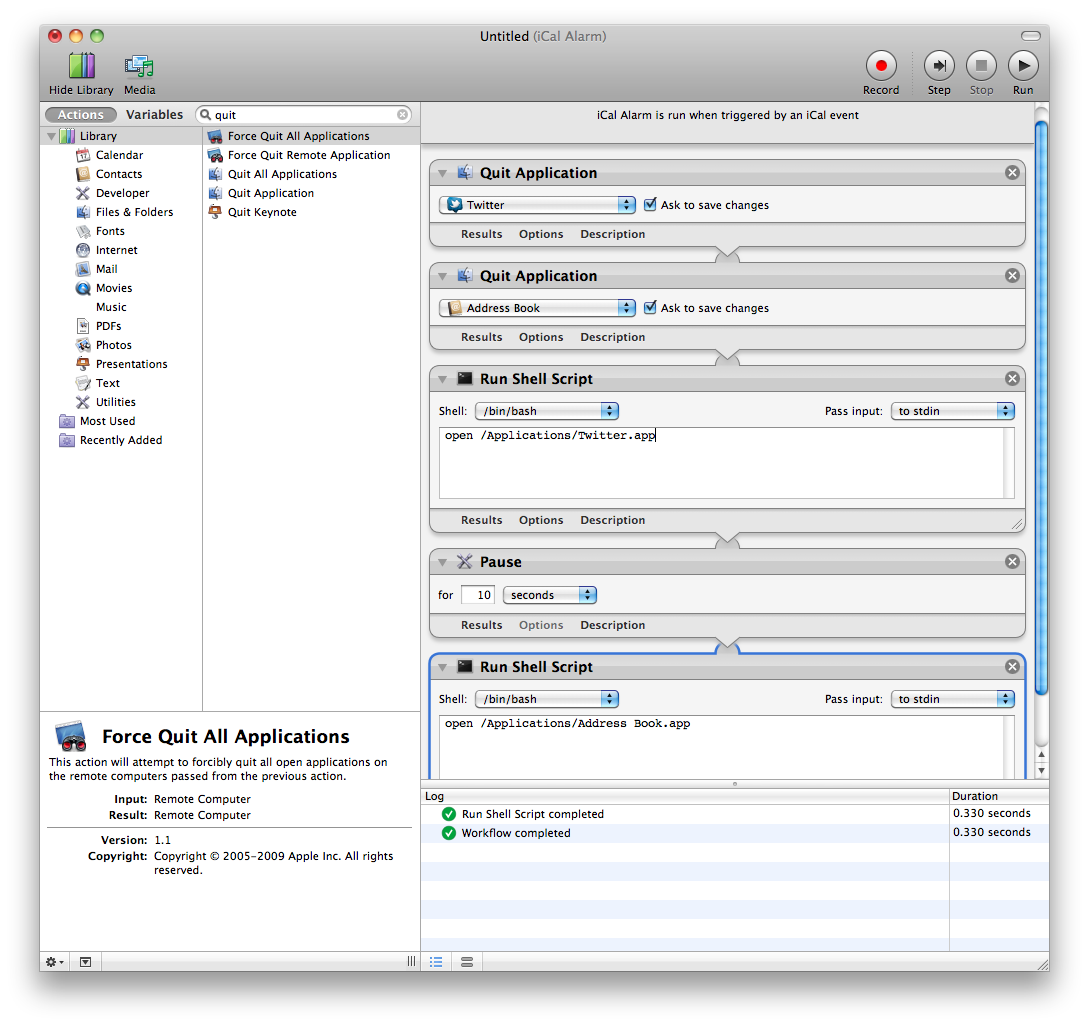
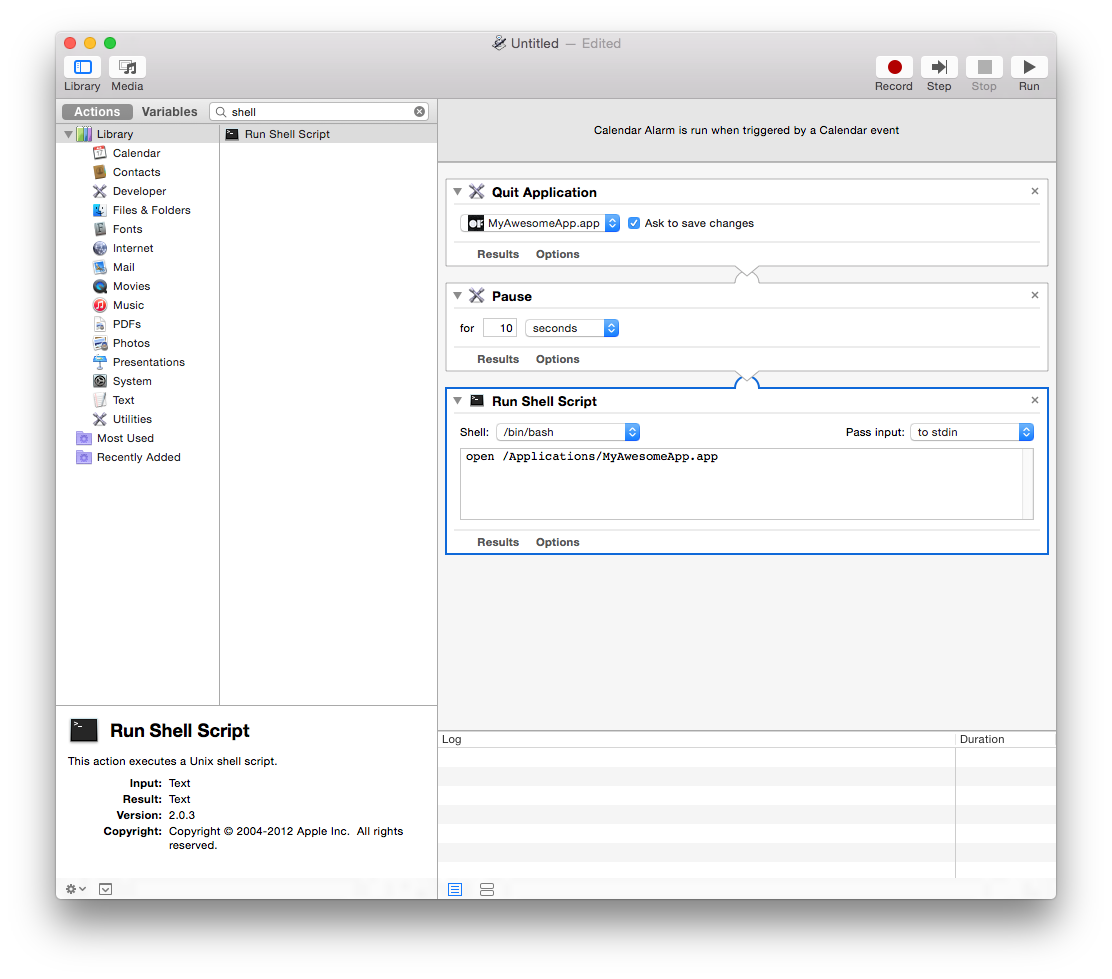
Updates to Yosemite images and formatting for Installation up 4evr

diff --git a/chapters/installation_up_4evr_macosx/chapter.md b/chapters/installation_up_4evr_macosx/chapter.md
@@ -1,9 +1,8 @@
-#Installation up 4evr - OSX#
+The original version of the article is [here](http://blairneal.com/blog/installation-up-4evr/) - I wanted to post it here to more easily/consistently update it and open it up to other people's modifications tips and suggestions - a Linux/Windows version would be great to build out too!
 
-The original version of the article is [here](http://blairneal.com/blog/installation-up-4evr/).
+Edited the article with https://stackedit.io/# for help with rendering Github Flavored Markup
 
-This article is intended as a starter guide to help keep a software based installation up for as long as possible in a public facing setting. This guide applies primarily to software running on Mac OSX 10.8+. The software is likely running as a fullscreen, single display app. Although I hope many different people find parts of the article useful in terms of prepping for the challenge of long term installs.
-
+---------
 At work I recently had to set up a four installations of different configurations that would need to run all day, every day, 24 hours a day for a couple months with as few crashes or glitches as possible and without anyone going to check on them. This is something that a lot of media artists need to do all the time, and there are a bunch of different tricks and tips to keeping things up for an extended period, I figured I’d share my findings. There are alternate ways to do many of these tasks and this is only one road so please share some tips you’ve picked up out in the field down in the comments box below.
 
 I had to do several searches in a couple different places to find all the information I needed to keep everything consistently up and bug free. Luckily most of the installations I was dealing with this time were fairly light in terms of resources and complications, but it’s always best practices to have a safety net.
@@ -12,24 +11,26 @@ I usually run these off brand new, unboxed computers so this is sort of starting
 
 Tip: if you’re doing multiple computers, do these prep steps on one of them and just boot the others into target disk mode and use something like [Carbon Copy Cloner](http://www.bombich.com/) to mirror the first one on the next so everything is as consistent as possible.
 
-Step 1: Prep your software and the computer
-----------------------------------------------
+**Step 1: Prep your software and the computer**
+-----------------------------------------------
 
 When building your software or whatever it might be, always keep the long running installation in mind. Plan which things will need to be adjusted by whoever is watching over the installation from the beginning (or at least don’t save it for the end). In my experience, keep it as simple as possible, so that it’s easy for the caretaker to get in there to fix or adjust what they need without opening Xcode and compiling or even exiting out of your app. Time you spend now to make things simple will save you hours of remote debugging when something breaks.
 
-You’ll need to go through and turn off or disable several different automatic settings to keep things from popping up over top of your application. This can differ depending on whether you’re running 10.6, 10.7, 10.8, 10.9 etc etc.
+You’ll need to go through and turn off or disable several different automatic settings to keep things from popping up over top of your application. This can differ depending on whether you’re running 10.7, 10.8, 10.9, 10.10 etc etc.
+
+Nick Hardeman has made a utility application for setting all of these attributes and more from one location - [check it out here](http://nickhardeman.com/610/openframeworks-configuring-osx-for-a-long-term-installation/)
 
 In System Preferences:
 
  - **Desktop and Screensaver:** Disable your screensaver. Set it’s time to “Never." I also suggest changing your desktop background to either black/a screenshot of your app/you client's logo - you can even set these to change automatically - remember - **it's not broken until someone notices** :)
  - **Energy Saver:** Turn Display Sleep and Computer Sleep to Never. Enable “Start up automatically after power failure” and “Restart automatically if the computer freezes” (these are only available in 10.7 and later)
- - **Users and Groups:** ->Login Options: Enable Automatic Login
+ - **Users and Groups:** Go to Login Options (above the padlock) and enable "Automatic Login"
  - **Software update:** Disable automatic updates.
- - **Notifications:** Disable any potential Notification Center alerts (banners or popups) from specific apps
  - **Sharing:**  If you are running your main computer without a monitor or in an inaccessible area, don’t forget to turn on File sharing and Screen sharing. This will allow you to access the computer and control it if you're on the same network (optional if you’re concerned about security).
  - **Network:** If you don’t need remote access or don’t need Internet access for the installation, it’s not a bad idea to disable the Wifi so the “please select a wireless network” window doesn’t pop up when you least expect it. You can also turn off the option to ask you to join a new network if the proper one isn't found.
- - **Bluetooth** :If running without a mouse or keyboard plugged in, sometimes you can get the annoying  ”Bluetooth keyboard/mouse setup” pop up over your application. You can temporality disable these by going to the advanced settings within the Bluetooth Preferences. See below for it’s location in 10.6.
+ - **Bluetooth** If running without a mouse or keyboard plugged in, sometimes you can get the annoying  ”Bluetooth keyboard/mouse setup” pop up over your application. You can temporality disable these by going to the advanced settings within the Bluetooth Preferences. See below for it’s location in 10.6.
  - **Security:** I would make sure that "Disable Automatic Login" is unchecked so you don't hit any surprises on reboots. If you’re really paranoid, you can even disable things like the IR remote receiver that still exists on some macs and definitely on Macbooks. This would keep pranksters with Apple TV remotes from “Front Rowing” your installation. To disable, go to Security->General->Advanced (in >10.8) and “Disable remote control IR receiver”.
+ - **Notification Center:** You can either [disable Notification Center completely](http://www.tekrevue.com/tip/how-to-completely-disable-notification-center-in-mac-os-x/), or set your "Do Not Disturb" to basically on be on forever by setting it with overlapping times like the screenshot below
 
 ![BluetoothSettings](images/Bluetooth_settings.png)
 
@@ -38,6 +39,12 @@ In System Preferences:
 ![SharingSettings](images/Sharing_settings.png)
 
 ![Login_items](images/Auto_login.png)
+
+![Power_settings](images/PowerSettings.png)
+
+![Update_disable](images/Auto_update_disable.png)
+
+![Notification_Center](images/Notification_Center_disable.png)
 
 You can also disable the "This Application Unexpectedly Quit" and the subsequent bug report that comes with it by running this command in terminal OR renaming the Problem Reporter app:
 
@@ -57,14 +64,15 @@ If necessary, You can also hide all of the desktop icons with this terminal comm
 defaults write com.apple.finder CreateDesktop -bool false
 ```
 
-Step 2: Boot into your software
+
+**Step 2: Boot into your software**
 -------------------------------
 
 Things get unplugged, power goes out, not everyone has budget or space for a battery backup etc etc. Above, I covered how to have everything reboot automatically after power failures or freezes, but you’ll also need your app to be ready to go from boot and not leave the desktop open to prying eyes. There are many ways to have your application load automatically - the simplest is using OSX's built in tools: In the System Preferences “Accounts” panel, select “Login Items” and drag your application into there to have it open automatically on launch.
 
 ![Login Items](images/Login_items.png)
 
-Step 3: Keep it up (champ!)
+**Step 3: Keep it up (champ!)**
 ---------------------------
 
 There are several ways to make sure your application goes up and stays up - 
@@ -79,38 +87,37 @@ The [difference between a Launch Daemon and a Launch Agent](http://techjournal.3
 
 Also note (!) that you may need to point your launch daemon to a file within your .app package, not just the app itself - you have to point it to the file in the MacOS folder inside the .app package (right-click your app and select "Show package Contents") Otherwise you might be wondering why the launchdaemon isn't launching your app.
 
-A launchd example from admsyn: https://gist.github.com/4140204
+A launchd example from [admsyn](https://gist.github.com/4140204)
 
 Of course you could make the launchd plist yourself for free from a template like above. You can read all about them with the command "man launchd.plist" typed into terminal to get an idea of what each toggle controls. One quick method to setting up Launchd is to use Lingon ($4.99 in the App Store) or [Lingon X](http://www.peterborgapps.com/lingon/) 
+ 
 
 In Lingon, hit the + to create a new launchd plist. Just make it a standard launch agent. Now Set up your plist like so:
 
 ![LingonSetup](images/LingonSetup.png)
 
-One additional/optional thing you can add to this is to put an additional key in the plist for a “Successful Exit”. By adding this, your app won’t re-open when it has detected that it closed normally (ie You just hit escape intentionally, it didn’t crash). Can be useful if you’re trying to check something and OS X won’t stop re-opening the app on you. To easily add this to the key, just hit “expert mode” on the bottom of the Lingon window after selecting your newly made script on the left. Then modify the relevant bits highlighted in the screenshot:
-
-![LingonplistSetup](images/LingonSetup2.png)
+One additional/optional thing you can add to this is to put an additional key in the plist for a “Successful Exit”. By adding this, your app won’t re-open when it has detected that it closed normally (ie You just hit escape intentionally, it didn’t crash). Can be useful if you’re trying to check something and OS X won’t stop re-opening the app on you. To easily add this to the key, click the advanced tab and click the checkbox for "Successful exit" - or just add it manually as it in the above screenshot.
 
 **Shell script+Cron Job method**
 
 (I got the following super helpful tip from [Kyle McDonald](http://kylemcdonald.net/))
+)
 
 This method is sort of deprecated in relation to the launchd method - you can run shell scripts with Lingon and launchd in the same manner as what we've got here. Shell scripting is your best friend. With the help of the script below and an application called CronniX (or use Lingon) , you will be able to use a cronjob to check the system’s list of currently running processes. If your app does not appear on the list, then the script will open it again, otherwise it won’t do anything. Either download the script or type the following into a text editor, replacing Twitter.app with your app’s name and filepath. Don’t forget the “.app” extension in the if statement!:
 
-```bash
-\#!/bin/sh if [ $(ps ax | grep -v grep | grep "Twitter.app" | wc -l) -eq 0 ] then
-echo "Twitter not running. opening..."
-open /Applications/Twitter.app else
-echo "Twitter running" fi
-```
+	\#!/bin/sh 
+		if [ $(ps ax | grep -v grep | grep "Twitter.app" | wc -l) -eq 0 ] then
+		echo "Twitter not running. opening..."
+		open /Applications/Twitter.app 
+		else
+		echo "Twitter running" fi
 
 Save that file as something like “KeepOpen.sh” and keep it next to your application or somewhere convenient.
 
 After creating that file, you’ll need to make it executable. To do this, open the Terminal and in a new window type “chmod +x ” and then enter the path to the shell script you just created (you can either drag the shell script into the terminal window or manually type it). It would look something like this:
 
-```bash    	
-Laser-MacBook-Pro:~ laser$ chmod +x /Users/laser/Desktop/KeepOpen.sh
-```
+    	
+    4Evr-MacBook-Pro:~ Forever4Evr$ chmod +x /Users/Forever4Evr/Desktop/KeepOpen.sh
 
 After you have made it executable, you’re now ready to set it up as a cronjob. Tip: to test the script, you can change the extension at the end to KeepOpen.command as an alternative to opening it with Terminal, but the same thing gets done.
 
@@ -126,17 +133,15 @@ This is a great tool if there is an unintended crash because the app will never 
 
 **Non-Cronjob - Shell Script Method**
 
-```bash
-\#!/bin/bash
- 
-while true
-do
-#using open to get focus
-echo "Trying to open empty example"
-open -a emptyExample
-sleep 10
-done
-```
+    \#!/bin/bash
+     
+    while true
+    do
+    #using open to get focus
+    echo "Trying to open empty example"
+    open -a emptyExample
+    sleep 10
+    done
 
 Just type this into a plaintext document and save it as something like ”KeepMyAppAlivePlz.command” and then use chmod as above to make the file executable  and then drop this in your login items as  above. This one will just continuously try and open your app every 10ms, but if it is already open, the OS knows to not try opening it a second, third, fourth time.
 
@@ -144,7 +149,7 @@ Make sure to check the Console.app for any errors that may have come through whe
 
 Applescript is also a very solid choice for doing some more OS specific work in terms of having odd menus clicked or keypresses sent in some order.
 
-Step 4: Reboot periodically
+**Step 4: Reboot periodically**
 ---------------------------
 
 This one is a little more preventative, or maybe superstitious so hopefully someone can point out a concrete reason why this is a good idea. Depending on your app and the amount of stuff it reaches into, there could be some memory leaks or other OS bugs that you haven’t accounted for. Rebooting every day or week is a good idea to keep everything tidy, system wise.
@@ -163,14 +168,16 @@ Run it to see if it does what you expect and then save it out. When you save,it 
 
 If you’d like to just close your programs and re-open them and there is a background and foreground do something like this (pauses are so the quitting and re-opening stuff has time to actually execute):
 
-![enter image description here](images/Automator_example.png)
+![AutomatorPause](images/Automator_example.png)
 
-Step 5: Check in on it from afar
+**Step 5: Check in on it from afar.**
 ---------------------------------
 
 There are a bunch of options here from various paid web services (like [Logmein](http://www.logmein.com/) or [Teamviewer](http://teamviewer.com/)), to VNC (many options for this: [RealVNC](http://realvnc.com/) and Chicken of the VNC tend to come up a bunch) to [SSHing](http://www.mactricksandtips.com/2009/06/ssh-into-your-mac.html). The choice here depends on your comfort level and how much you need to do to perform maintenance from far away. Also - see below for tips on logging the status of your app as an alternative way
 
 Leaving a Dropbox connected to the computer and your own is super useful for file swaps between the two computers. Although most remote screensharing services have file sharing built in, Dropbox is just a nice, fairly transparent option.
+
+Determining the IP of the machine on a dynamically allocated network can be a pain, especially in screenless/headless installations. To make this a little easier, Robb Godshaw wrote a little Automator Script that says the IP aloud using Text-to-Speech 30 seconds after the computer boots. [Download link on Instructables.](http://www.instructables.com/id/Configuring-a-Mac-for-an-always-on-operation/steps/9)
 
 Step 6: Test, test, test.
 -------------------------
@@ -190,31 +197,23 @@ There are a couple things you can do depending on what you want to know about th
 
 There is a terminal command you can use to get a list of all of the currently running processes on your computer:
 
-```bash
-ps aux (or ps ax)
-```
+    ps aux (or ps ax)
 
-(more info above ps commands [here](https://developer.apple.com/library/mac/documentation/Darwin/Reference/ManPages/man1/ps.1.html)) – Further more you can filter this list to only return applications you’re interested in learning about:
+(more info above ps commands [here](https://developer.apple.com/library/mac/documentation/Darwin/Reference/ManPages/man1/ps.1.html))) – Further more you can filter this list to only return applications you’re interested in learning about:
 
-```bash
-ps aux | grep "TweetDeck"
-```
-
+    ps aux | grep "TweetDeck"
+    
 This will return a line like this:
 
-```bash
-USER             PID  %CPU %MEM      VSZ    RSS   TT  STAT STARTED      TIME COMMAND
-laser          71564   0.4  1.7  4010724 140544   ??  S    Sun03PM  14:23.76 /Applications/TweetDeck.app/Contents/MacOS/TweetDeck -psn_0_100544477
-laser          95882   0.0  0.0  2432768    600 s000  S+   12:11PM   0:00.00 grep TweetDeck
-```
+    USER             PID  %CPU %MEM      VSZ    RSS   TT  STAT STARTED      TIME COMMAND
+    laser          71564   0.4  1.7  4010724 140544   ??  S    Sun03PM  14:23.76 /Applications/TweetDeck.app/Contents/MacOS/TweetDeck -psn_0_100544477
+    laser          95882   0.0  0.0  2432768    600 s000  S+   12:11PM   0:00.00 grep TweetDeck
 
 Now you have the following useful info: CPU usage, Memory usage (as percentage of total memory), Status, Time Started, Time Up
 
 All that is left is to write this output to a text file, which you can do with a line like this:
 
-```bash
-ps aux | grep 'TweetDeck' >> /Users/laser/Dropbox/InstallationLogs/BigImportantInstall/Number6ProcessLog.txt
-```
+    ps aux | grep 'TweetDeck' >> /Users/laser/Dropbox/InstallationLogs/BigImportantInstall/Number6ProcessLog.txt
 
 This line basically says - tell me the open processes (px aux) - only give me the lines that have "Tweetdeck" in them (grep Tweetdeck) - and then append them to a text file located at this location ( >> path_to_text_file)
 
@@ -222,31 +221,23 @@ Now we just need to make this an executable shell script and set it up as a laun
 
 Let’s also take this one step further and say, hypothetically, that the Triplehead2Go display adapter you have is fairly wonky and you don’t always get the displays or projectors to connect after reboot – or maybe a projector is shutting itself off and disrupting things. Well we can log the currently available resolutions too! Try entering the line below in your own terminal:
 
-```bash
-system_profiler SPDisplaysDataType
-```
+    system_profiler SPDisplaysDataType
     
 This will return a list of connected displays and some metadata about them including resolution and names.
 
 Let’s say you want to make sure you’re running a resolution of 3840×720 at all times…or you want a log of resolution changes. You would do something like:
 
-```bash
-system_profiler SPDisplaysDataType | grep Resolution
-```
+    system_profiler SPDisplaysDataType | grep Resolution
 
 This will return “Resolution: 3840×720″ which you can combine with the above lines to write it all to a text file. So here would be your shell script file if you wanted to record the currently running processes and the current resolutions:
 
-```bash
-    \#!/bin/bash
-ps aux | grep 'YourAppName' >> /Users/you/filepath/Install6ProcessLog.txt
-system_profiler SPDisplaysDataType | grep Resolution >> /Users/you/Dropbox/Install6ProcessLog.txt
-```
+        \#!/bin/bash
+    ps aux | grep 'YourAppName' >> /Users/you/filepath/Install6ProcessLog.txt
+    system_profiler SPDisplaysDataType | grep Resolution >> /Users/you/Dropbox/Install6ProcessLog.txt
 
 And now you’re feeling excited, maybe you want to grab a fullscreen screenshot at a regular interval too, just to make sure there is no funkiness happening that you can’t see…well you could add this line to the above as well:
 
-```bash
-screencapture ~/Desktop/$(date +%Y%m%d-%H%M%S).png
-```
+    screencapture ~/Desktop/$(date +%Y%m%d-%H%M%S).png
 
 This will save a screenshot to the desktop (specify your own file path) with a formatted date and time. You may want to do this every hour instead of every 5 minutes since it’s a big chunk of data and it may cause some issue with your screens. As usual – test before deploying!
 
@@ -254,7 +245,7 @@ Bonus points would be to create an auto-generated table and webpage that takes a
 
 If the process logger isn’t enough, we can use what we learned in that process to actually set up a system to email you if something is amiss so you don’t have to manually check it. We can do this all with the command line and internal tools, it’s just a more involved setup. This is going to be fairly general and will need some tuning in your specific case.
 
-First you will need to configure postfix so you can easily send emails from the terminal – follow the instructions here as closely as possible: http://benjaminrojas.net/configuring-postfix-to-send-mail-from-mac-os-x-mountain-lion/
+First you will need to configure postfix so you can easily send emails from the terminal – [follow the instructions here as closely as possible](http://benjaminrojas.net/configuring-postfix-to-send-mail-from-mac-os-x-mountain-lion/)
 
 If you were using a gmail account you would do:
 
@@ -268,23 +259,21 @@ Now send a test email to yourself by running: echo “Hello” | mail -s “test
 
 Second step is to combine this new found ability to send emails from the Terminal with a process to check if your application is still running…something like the below would work with some tweaking for what you’re looking to do:
 
-```bash
-\#!/bin/sh
-if [ $(ps ax | grep -v grep | grep "YourApp.app" | wc -l) -eq 0 ] ; #Replace YourApp.app with your own app's name     
-then
-        SUBJECT="Shit broke"
-        EMAIL="InstallationSupport" #this is the receiver
-     EMAILMESSAGE="This could be for adding an attachment/logfile"
-     echo "The program isn't open - trying to re-open">$SUBJECT
-     date | mail -s "$SUBJECT" "$EMAIL"  "$EMAILMESSAGE"
- 
-        echo "YourApp not running. Opening..."
- 
-    open /Applications/YourApp.app #reopen the app - set this to an exact filepath
-else
-    echo "YourApp is running"
-fi
-```
+    \#!/bin/sh
+    if [ $(ps ax | grep -v grep | grep "YourApp.app" | wc -l) -eq 0 ] ; #Replace YourApp.app with your own app's name     
+    then
+            SUBJECT="Shit broke"
+            EMAIL="InstallationSupport" #this is the receiver
+         EMAILMESSAGE="This could be for adding an attachment/logfile"
+         echo "The program isn't open - trying to re-open">$SUBJECT
+         date | mail -s "$SUBJECT" "$EMAIL"  "$EMAILMESSAGE"
+     
+            echo "YourApp not running. Opening..."
+     
+        open /Applications/YourApp.app #reopen the app - set this to an exact filepath
+    else
+        echo "YourApp is running"
+    fi
 
 Now you just need to follow the instructions from Step 3 above to set this shell script up to run with launchd – you can check it every 5 minutes and have it email you if it crashed. You could also adapt the If statement to email you if the resolution isn’t right or some other process condition.
 
@@ -295,15 +284,29 @@ See [this article](http://blairneal.com/blog/memory-leak-murderer/) about combin
 
 Bonus – if using MadMapper – see [this link](http://blairneal.com/blog/applescript-to-automatically-fullscreen-madmapper-for-installations/) for an AppleScript that will open MadMapper and have it enter fullscreen – and enter “OK” on a pesky dialog box.
 
-Alternate resources
+Alternate resources:
 --------------------
 
-This is an amazing addon for openFrameworks apps that keeps your application open even after a large range of failures: https://github.com/toolbits/ofxWatchdog
+**MAC OS X**
+This is an amazing addon for openFrameworks apps that keeps your application open even after a large range of failures: [ofxWatchdog](https://github.com/toolbits/ofxWatchdog
+)
+[http://vormplus.be/blog/article/configuring-mac-os-x-for-interactive-installations](http://vormplus.be/blog/article/configuring-mac-os-x-for-interactive-installations
+)
 
-http://vormplus.be/blog/article/configuring-mac-os-x-for-interactive-installations
+[Nick Hardeman's utility for setting all of these from one location](http://nickhardeman.com/610/openframeworks-configuring-osx-for-a-long-term-installation/)
 
-http://www.evsc.net/home/prep-windows-machine-for-fulltime-exhibition-setup
+Nick Hardeman's [ofxMacUtils](https://github.com/NickHardeman/ofxMacUtils)
 
+**LINUX**
+
+[https://github.com/openframeworks/ofBook/blob/master/chapters/installation_up_4evr_linux/chapter.md](https://github.com/openframeworks/ofBook/blob/master/chapters/installation_up_4evr_linux/chapter.md)
+
+**RASPBERRY PI**
+
+[https://sfpc.hackpad.com/rPi-run-4-ever-qFgafqYPM54](https://sfpc.hackpad.com/rPi-run-4-ever-qFgafqYPM54)
+
+**WINDOWS:** 
 If you’re looking for help with this task with Windows, check out this awesome script [StayUp](http://www.bantherewind.com/stayup) from Stephen Schieberl. Also for Windows: http://www.softpedia.com/get/System/File-Management/Restart-on-Crash.shtml and this tool for scripting OS operations on windows http://www.nirsoft.net/utils/nircmd.html 
 
 Check out this great step by step from EVSC: http://www.evsc.net/home/prep-windows-machine-for-fulltime-exhibition-setup
+
